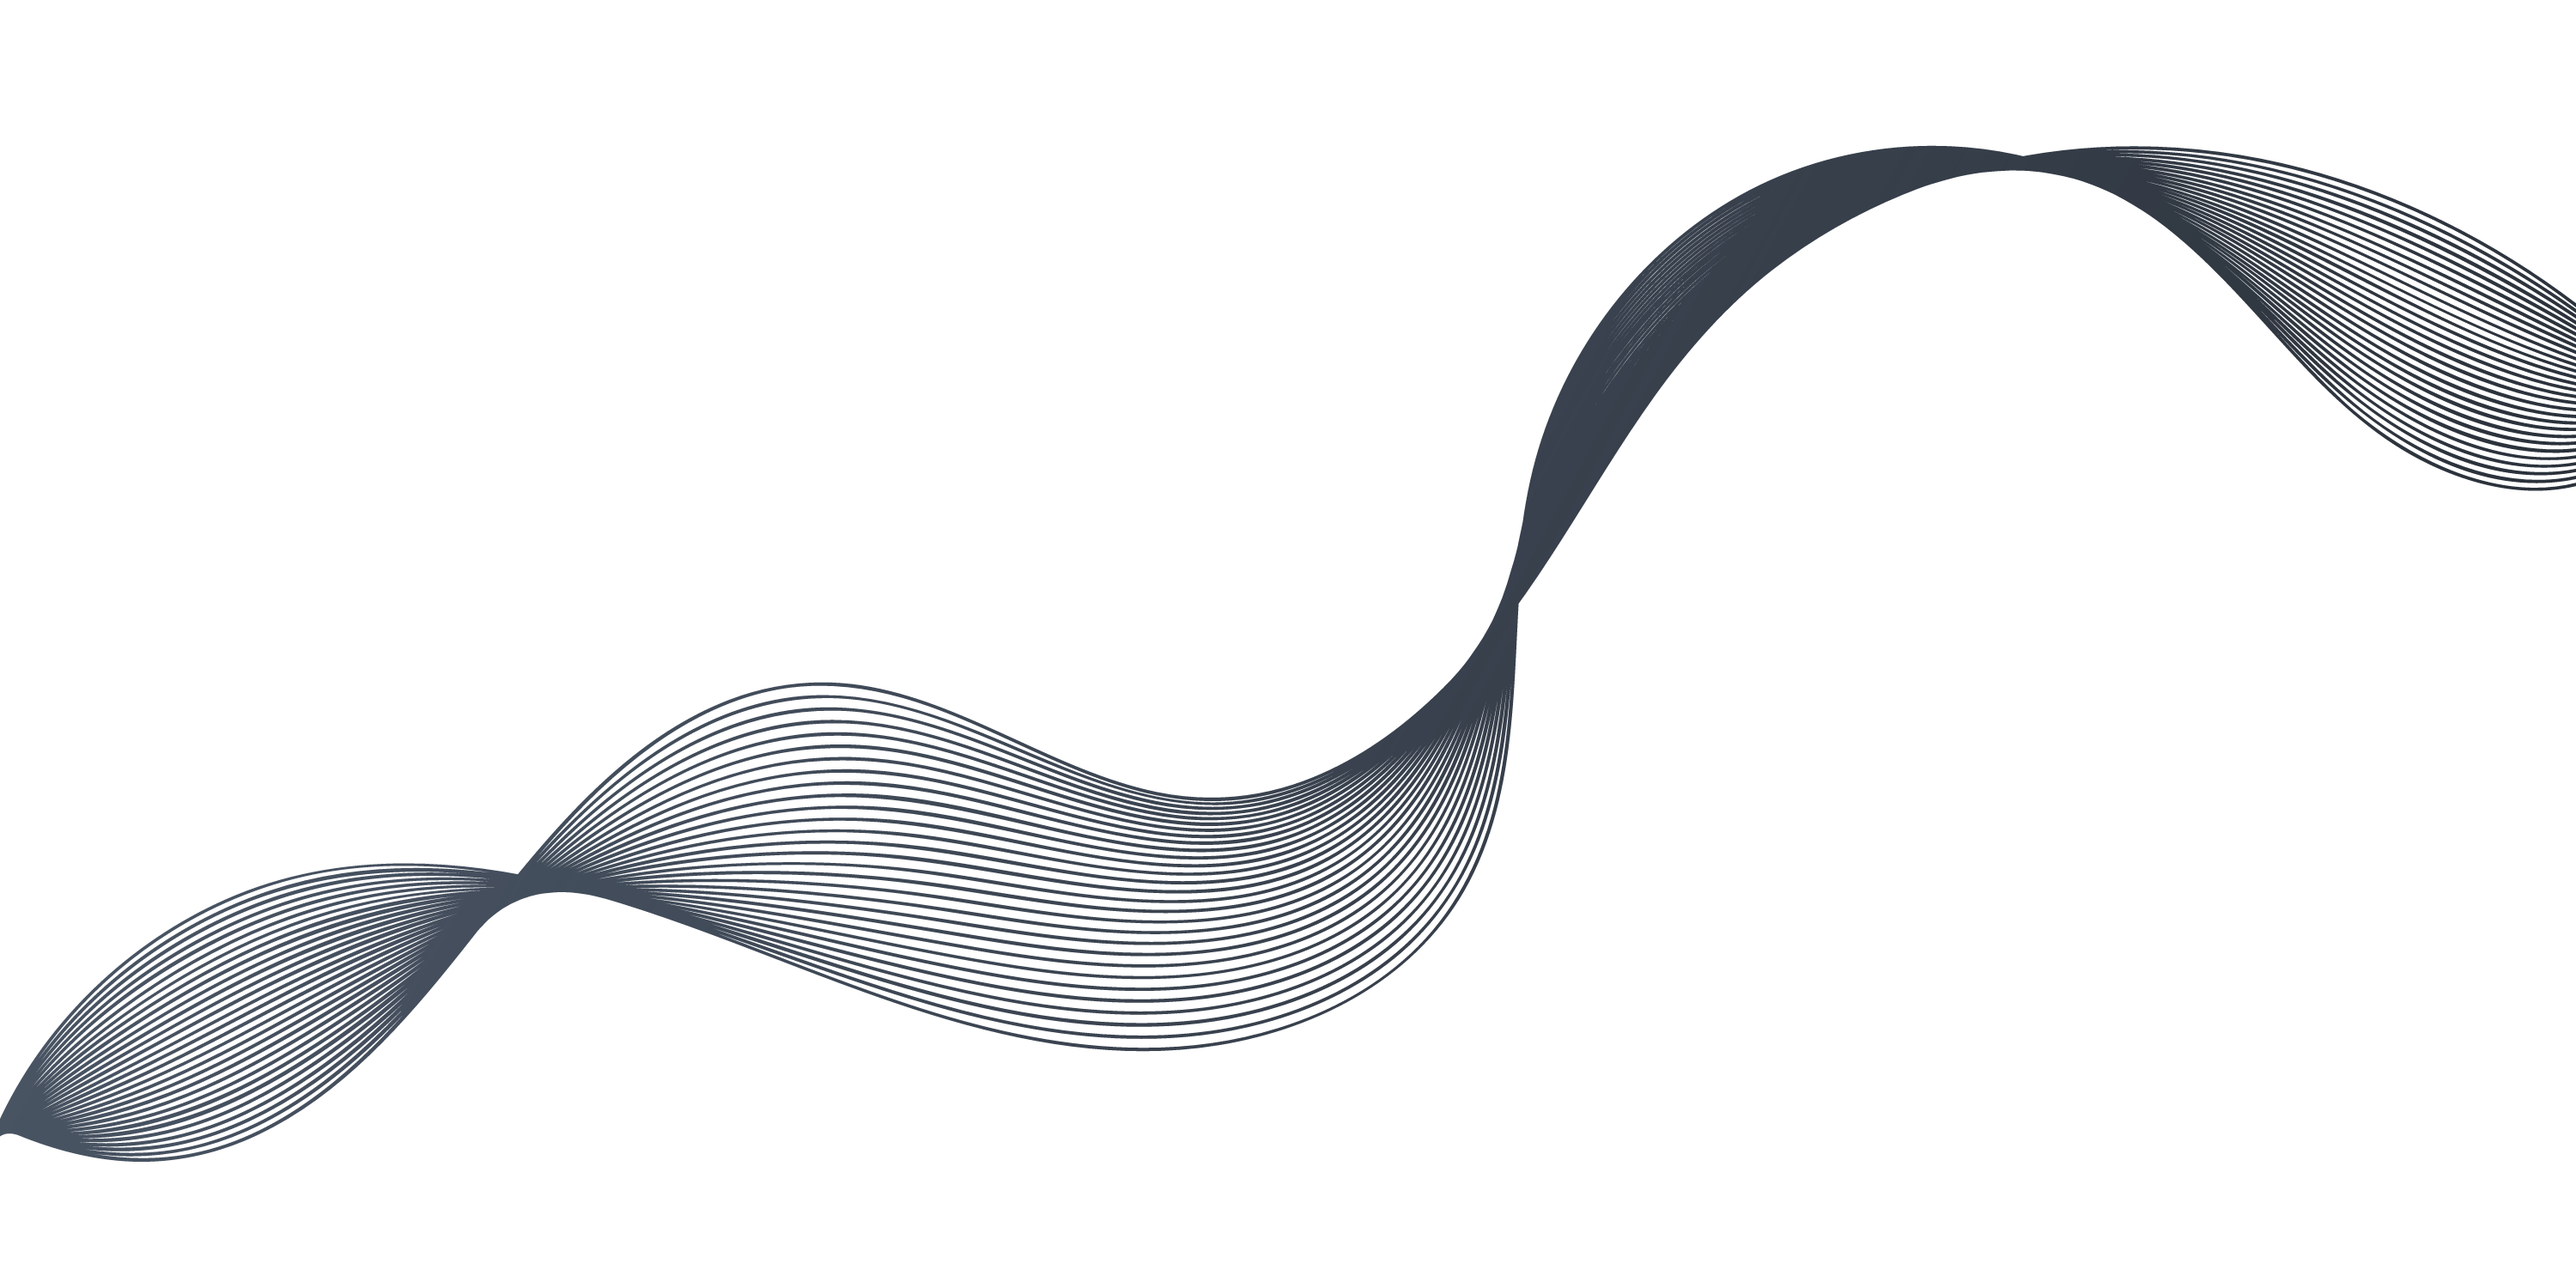
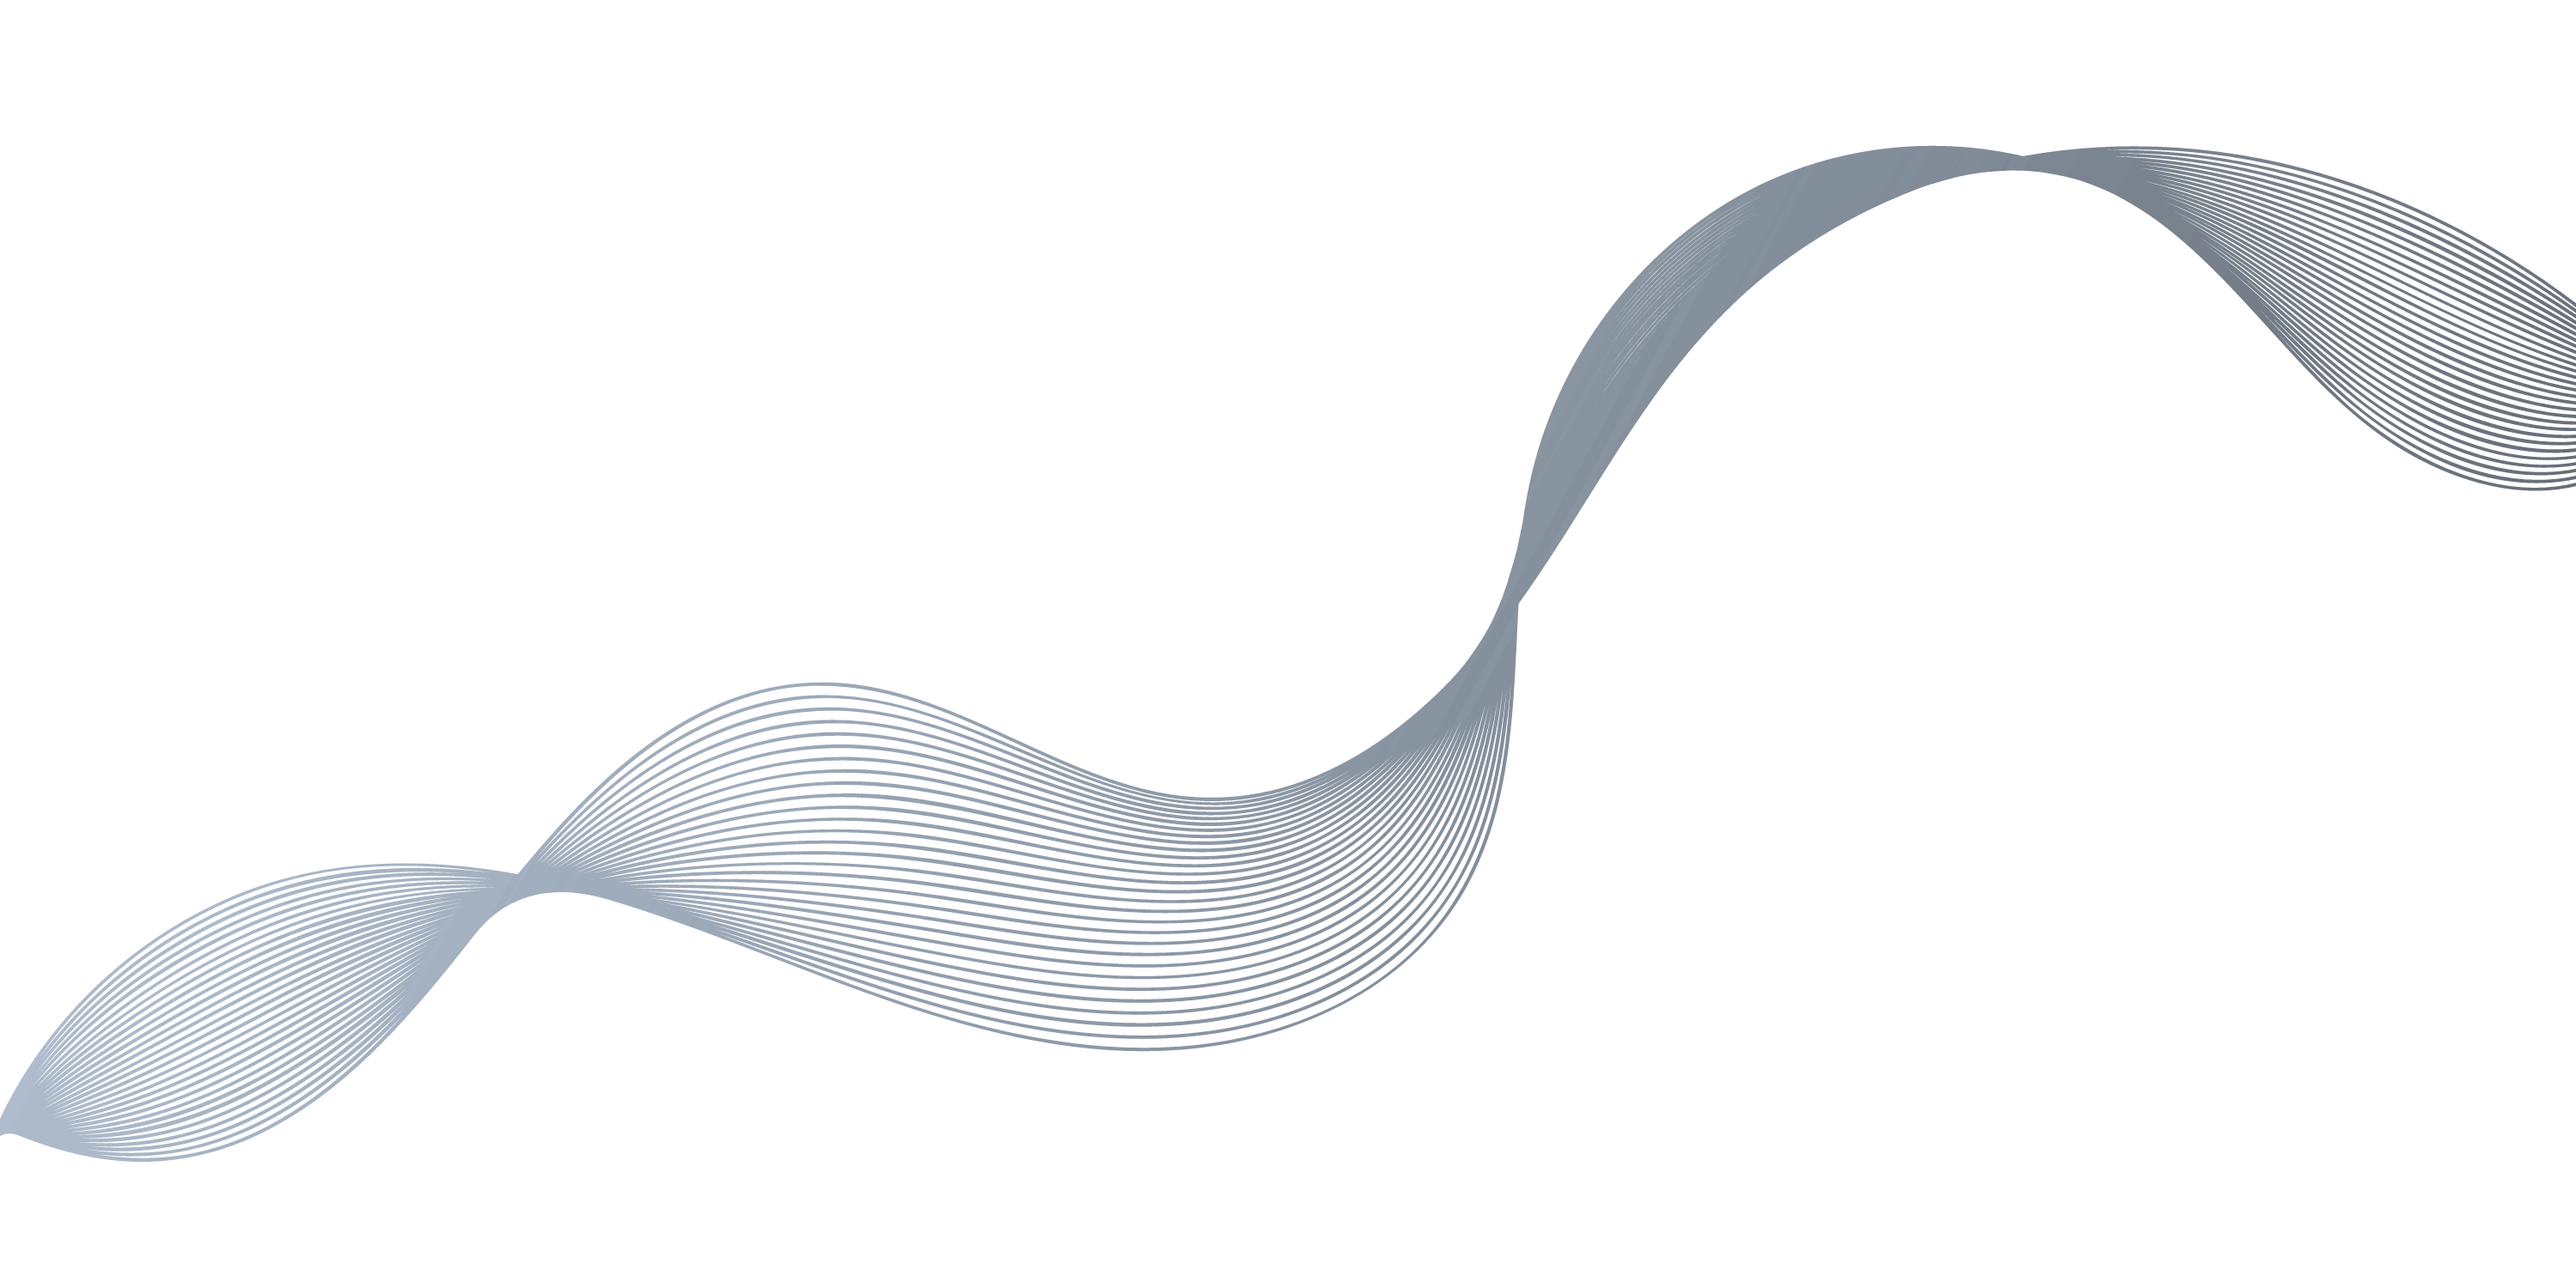
style: boost brightness and contrast of silver-slate background wave graphics for clear visibility

Changed region(s): [[0.0, 0.46, 0.589, 0.92], [0.589, 0.092, 1.0, 0.46]]

diff --git a/app/globals.css b/app/globals.css
@@ -166,10 +166,10 @@ a:not(.btn-accent):not(.btn-outline):hover {
   background-position: center;
 }
 .theme-dark .hero-bg {
-  background-image: linear-gradient(rgba(0, 0, 0, 0.55), rgba(13, 17, 22, 0.85)), url("/bg-dark.png");
+  background-image: linear-gradient(rgba(0, 0, 0, 0.25), rgba(13, 17, 22, 0.65)), url("/bg-dark.png");
 }
 .theme-light .hero-bg {
-  background-image: linear-gradient(rgba(255, 255, 255, 0.4), rgba(248, 249, 250, 0.85)), url("/bg-light.png");
+  background-image: linear-gradient(rgba(255, 255, 255, 0.25), rgba(248, 249, 250, 0.70)), url("/bg-light.png");
 }
 
 /* mobile drawer background — always dark for readable white text */
